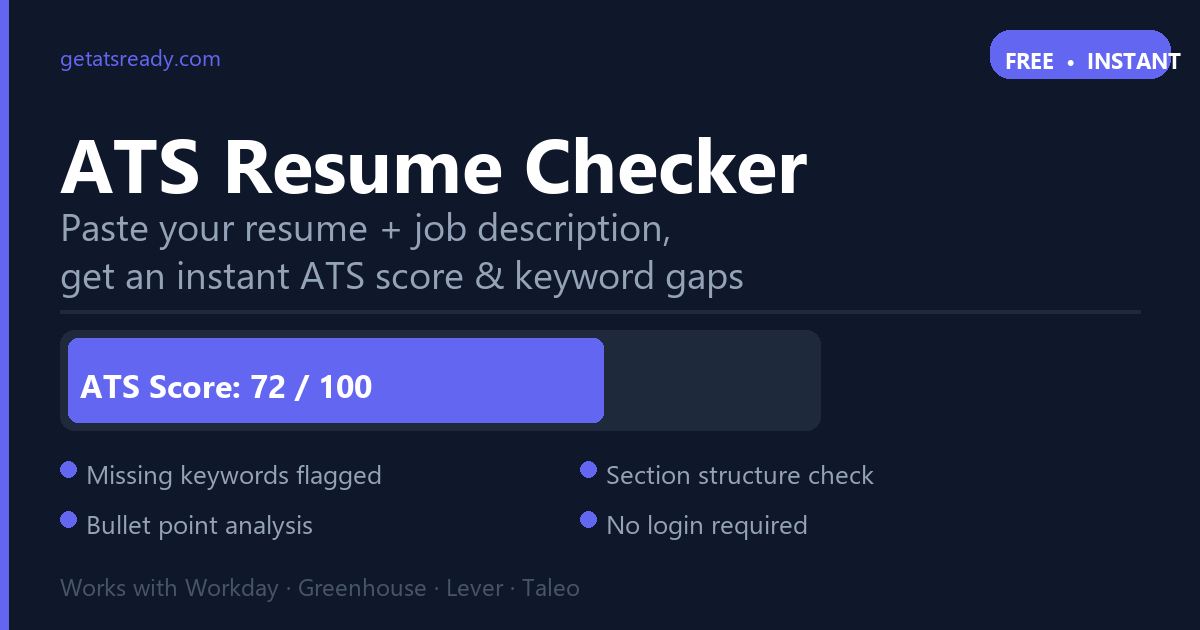
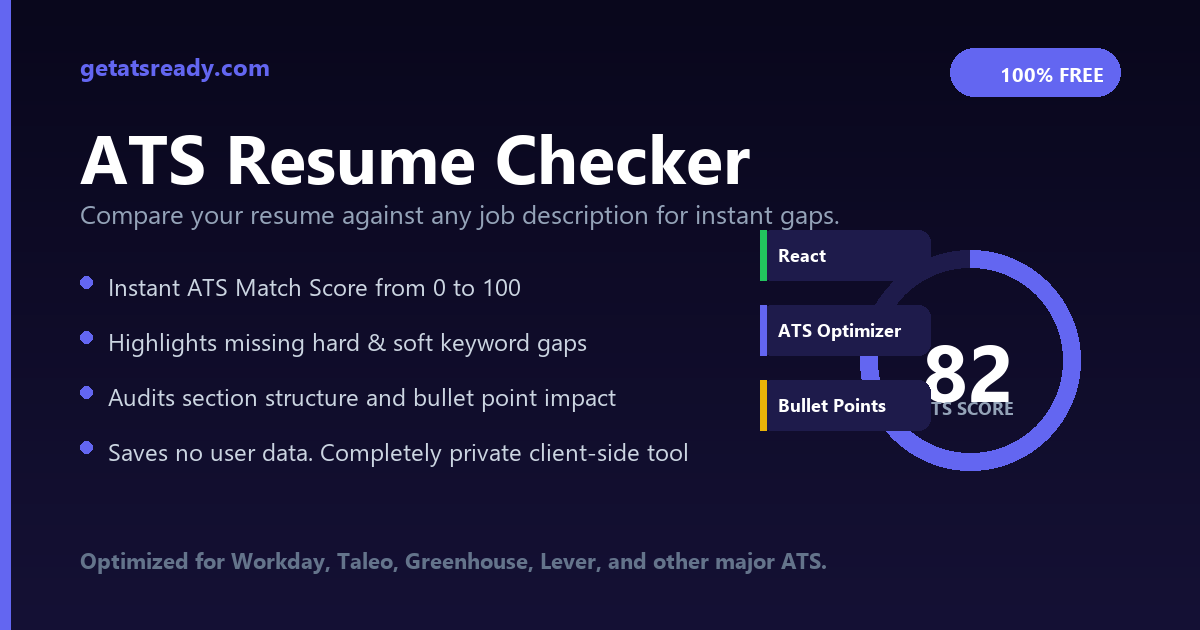
design: update premium OG share card; refactor: clean up keyword phrase processing

diff --git a/script.js b/script.js
@@ -344,34 +344,12 @@ function getCompanyNameCandidates(text) {
     return candidates;
 }
 
-const PHRASE_KEYWORDS = [
-    'visual studio',
-    'visual studio code',
-    'load balancers',
-    'customer facing',
-    'task oriented',
-    'technical documentation',
-    'cloud networking',
-    'one drive'
-];
-
-function preservePhraseKeywords(text) {
-    let normalized = text;
-    PHRASE_KEYWORDS.forEach(phrase => {
-        const esc = phrase.replace(/[.*+?^${}()|[\]\\]/g, '\\$&');
-        const regex = new RegExp(`\\b${esc}\\b`, 'gi');
-        normalized = normalized.replace(regex, phrase.replace(/\s+/g, '_'));
-    });
-    return normalized;
-}
-
 const PROTECTED_KEYWORDS = new Set(['data', 'training', 'software', 'web', 'agile', 'scrum', 'code', 'writing', 'user', 'seo', 'api']);
 const NOISE_KEYWORDS = new Set([
     'the', 'and', 'for', 'with', 'from', 'that', 'this', 'into', 'over', 'per', 'off', 'out', 'down',
     'its', 'our', 'you', 'they', 'who', 'we', 'are', 'was', 'were', 'has', 'had', 'been', 'will',
     'can', 'may', 'all', 'any', 'both', 'each', 'few', 'some', 'such', 'only', 'own', 'same',
     'than', 'too', 'very', 'just', 'now', 'then', 'when', 'where', 'why', 'how', 'also', 'back',
-    'about', 'emerging', 'environment', 'others', 'source', 'materials', 'draft', 'initial', 'updated', 'regular', 'manner', 'easily', 'understood', 'adapt', 'quickly', 'perspective', 'trends', 'changes', 'languages', 'verbal', 'fast-paced',
     'more', 'most', 'much', 'many', 'even', 'well', 'still', 'since', 'while', 'after', 'before',
     'above', 'below', 'near', 'far', 'upon', 'against', 'under', 'around', 'there', 'here', 'these',
     'during', 'between', 'without', 'himself', 'herself', 'themselves', 'whether',
@@ -462,13 +440,11 @@ function getKeywords(text, isJD = false) {
     }
 
     const companyCandidates = isJD ? getCompanyNameCandidates(processingText) : new Set();
-    const preservedText = preservePhraseKeywords(processingText);
-    const words = preservedText.toLowerCase()
+    const words = processingText.toLowerCase()
         .replace(/([a-z])([A-Z])/g, '$1 $2') 
         .replace(/[^\w\s+#+-]/g, ' ') 
         .split(/\s+/)
         .map(w => w.trim())
-        .map(w => w.replace(/_/g, ' '))
         .filter(w => w.length > 2 || /^(ai|js|ip|5g|ui|ux|c#|xml)$/.test(w));
 
     const frequencyMap = {};